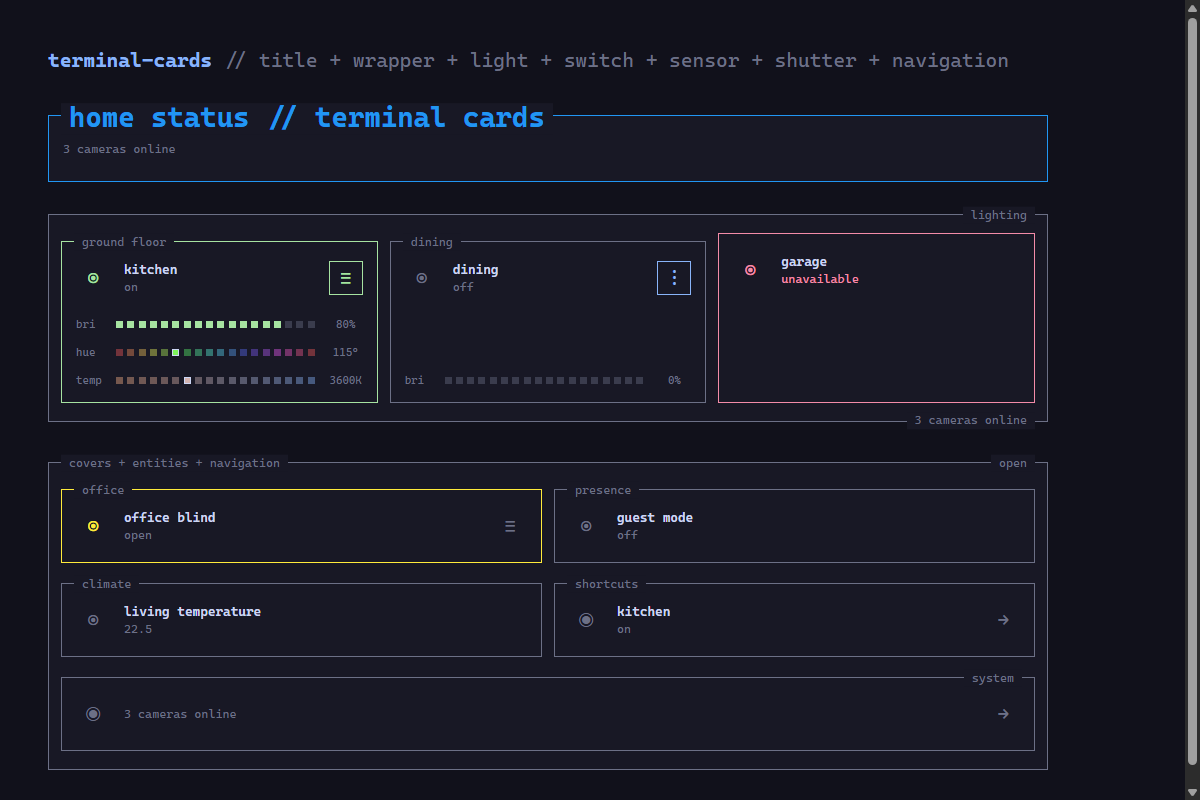
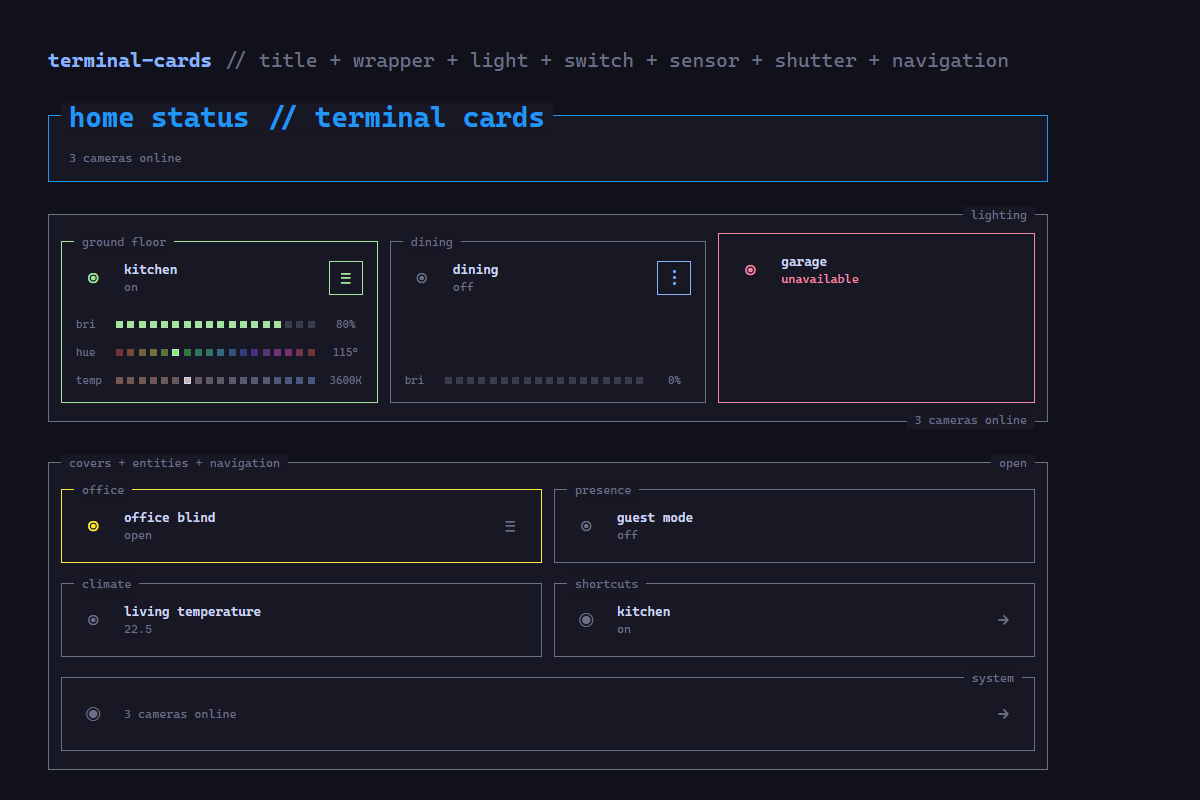
fix: TitleCard-Abstände und Wrapper-Picker korrigieren

Changed region(s): [[0.9867, 0.0, 1.0, 1.0], [0.0617, 0.1875, 0.1542, 0.2188]]

diff --git a/src/editors/wrapper-editor.js b/src/editors/wrapper-editor.js
@@ -45,6 +45,57 @@ const FORM_SCHEMA = [
   },
 ];
 
+let cardPickerLoadPromise = null;
+
+function withTimeout(promise, message, timeout = 5000) {
+  return new Promise((resolve, reject) => {
+    const timer = window.setTimeout(() => reject(new Error(message)), timeout);
+    Promise.resolve(promise).then(
+      (value) => {
+        window.clearTimeout(timer);
+        resolve(value);
+      },
+      (error) => {
+        window.clearTimeout(timer);
+        reject(error);
+      }
+    );
+  });
+}
+
+function ensureNativeCardPicker() {
+  if (customElements.get('hui-card-picker')) return Promise.resolve();
+  if (cardPickerLoadPromise) return cardPickerLoadPromise;
+
+  cardPickerLoadPromise = (async () => {
+    if (typeof window.loadCardHelpers !== 'function') {
+      throw new Error('window.loadCardHelpers is unavailable');
+    }
+    const helpers = await window.loadCardHelpers();
+    helpers.createCardElement({ type: 'vertical-stack', cards: [] });
+    await withTimeout(
+      customElements.whenDefined('hui-vertical-stack-card'),
+      'Home Assistant stack card load timed out'
+    );
+    const stackCardClass = customElements.get('hui-vertical-stack-card');
+    if (typeof stackCardClass?.getConfigElement !== 'function') {
+      throw new Error('Home Assistant stack editor is unavailable');
+    }
+    await withTimeout(
+      stackCardClass.getConfigElement(),
+      'Home Assistant stack editor load timed out'
+    );
+    if (!customElements.get('hui-card-picker')) {
+      throw new Error('Home Assistant card picker did not load');
+    }
+  })().catch((error) => {
+    cardPickerLoadPromise = null;
+    throw error;
+  });
+
+  return cardPickerLoadPromise;
+}
+
 const STYLES = `
   :host { display: block; }
   .editor { display: grid; gap: 16px; }
@@ -91,6 +142,7 @@ export class TerminalCardWrapperEditor extends HTMLElement {
     this._childEditor = null;
     this._picker = null;
     this._form = null;
+    this._renderGeneration = 0;
 
     const root = this.attachShadow({ mode: 'open' });
     const style = document.createElement('style');
@@ -99,9 +151,23 @@ export class TerminalCardWrapperEditor extends HTMLElement {
     root.append(style, this._container);
   }
 
+  connectedCallback() {
+    if (this._config) this._render();
+  }
+
+  disconnectedCallback() {
+    ++this._renderGeneration;
+  }
+
   set hass(hass) {
     this._hass = hass;
-    if (this._config && !this._container.hasChildNodes()) this._render();
+    if (
+      this._config &&
+      (!this._container.hasChildNodes() ||
+        (this._selected >= this._config.cards.length && !this._picker))
+    ) {
+      this._render();
+    }
     this._propagateContext();
   }
 
@@ -111,6 +177,13 @@ export class TerminalCardWrapperEditor extends HTMLElement {
 
   set lovelace(lovelace) {
     this._lovelace = lovelace;
+    if (
+      this._config &&
+      this._selected >= this._config.cards.length &&
+      !this._picker
+    ) {
+      this._render();
+    }
     this._propagateContext();
   }
 
@@ -151,6 +224,7 @@ export class TerminalCardWrapperEditor extends HTMLElement {
 
   _render() {
     if (!this._config) return;
+    const renderGeneration = ++this._renderGeneration;
     this._childEditor = null;
     this._picker = null;
     this._form = null;
@@ -256,7 +330,7 @@ export class TerminalCardWrapperEditor extends HTMLElement {
       this._renderCardOptions(cardEditor);
       this._renderChildEditor(cardEditor);
     } else {
-      this._renderPicker(cardEditor);
+      this._renderPicker(cardEditor, renderGeneration);
     }
     editor.append(cardEditor);
     this._container.append(editor);
@@ -353,8 +427,8 @@ export class TerminalCardWrapperEditor extends HTMLElement {
     this._modeButton.disabled = !this._guiModeAvailable;
   }
 
-  _renderPicker(container) {
-    if (customElements.get('hui-card-picker')) {
+  _renderPicker(container, renderGeneration) {
+    if (customElements.get('hui-card-picker') && this._hass && this._lovelace) {
       this._picker = document.createElement('hui-card-picker');
       this._picker.hass = this._hass;
       this._picker.lovelace = this._lovelace;
@@ -371,9 +445,37 @@ export class TerminalCardWrapperEditor extends HTMLElement {
     }
 
     const alert = document.createElement('ha-alert');
-    alert.setAttribute('alert-type', 'warning');
-    alert.textContent = 'Home Assistant’s native card picker is not available yet. Reopen the card editor.';
+    alert.setAttribute('alert-type', 'info');
+    alert.textContent = this._hass && this._lovelace
+      ? 'Loading Home Assistant’s native card picker…'
+      : 'Loading Home Assistant editor context…';
     container.append(alert);
+    if (!this._hass || !this._lovelace) return;
+
+    ensureNativeCardPicker()
+      .then(() => {
+        if (
+          renderGeneration !== this._renderGeneration ||
+          !this.isConnected ||
+          this._selected < this._config.cards.length
+        ) {
+          return;
+        }
+        this._render();
+      })
+      .catch((error) => {
+        if (
+          renderGeneration !== this._renderGeneration ||
+          !this.isConnected ||
+          !container.isConnected
+        ) {
+          return;
+        }
+        alert.setAttribute('alert-type', 'error');
+        alert.textContent = `Home Assistant’s native card picker could not be loaded: ${
+          error instanceof Error ? error.message : String(error)
+        }`;
+      });
   }
 
   _move(delta) {

diff --git a/tests/editors.test.html b/tests/editors.test.html
@@ -55,7 +55,34 @@
           }
         }
       );
-      customElements.define('hui-card-picker', class extends HTMLElement {});
+      let pickerLoadCount = 0;
+      let stackLoadCount = 0;
+      window.loadCardHelpers = async () => ({
+        createCardElement(config) {
+          if (config.type !== 'vertical-stack' || !Array.isArray(config.cards)) {
+            throw new Error('unexpected native editor preload config');
+          }
+          stackLoadCount += 1;
+          const stack = document.createElement('hui-vertical-stack-card');
+          setTimeout(() => {
+            if (customElements.get('hui-vertical-stack-card')) return;
+            customElements.define(
+              'hui-vertical-stack-card',
+              class extends HTMLElement {
+                static async getConfigElement() {
+                  pickerLoadCount += 1;
+                  await new Promise((resolve) => setTimeout(resolve, 10));
+                  if (!customElements.get('hui-card-picker')) {
+                    customElements.define('hui-card-picker', class extends HTMLElement {});
+                  }
+                  return document.createElement('div');
+                }
+              }
+            );
+          }, 10);
+          return stack;
+        },
+      });
     </script>
     <script type="module" src="../dist/terminal-cards.js"></script>
   </head>
@@ -64,6 +91,14 @@
     <script type="module">
       function assert(condition, message) {
         if (!condition) throw new Error(message);
+      }
+
+      async function waitFor(condition, message) {
+        const deadline = performance.now() + 3000;
+        while (!condition() && performance.now() < deadline) {
+          await new Promise((resolve) => setTimeout(resolve, 10));
+        }
+        assert(condition(), message);
       }
 
       async function run() {
@@ -160,9 +195,34 @@
         );
         assert(latest.cards[0].name === 'updated', 'child card visual edit was not saved');
 
+        assert(!customElements.get('hui-card-picker'), 'picker was already loaded before add');
+        editor.lovelace = null;
         editor.shadowRoot.querySelector('[data-action="add"]').click();
+        assert(
+          editor.shadowRoot.querySelector('ha-alert')?.textContent.includes('editor context'),
+          'picker was attached without complete Home Assistant editor context'
+        );
+        editor.lovelace = lovelace;
+        assert(
+          editor.shadowRoot.querySelector('ha-alert')?.textContent.includes('native card picker'),
+          'missing native picker did not enter a loading state'
+        );
+        editor.remove();
+        await customElements.whenDefined('hui-card-picker');
+        await Promise.resolve();
+        assert(
+          !editor.shadowRoot.querySelector('hui-card-picker'),
+          'stale picker load rendered while the editor was disconnected'
+        );
+        document.body.append(editor);
+        await waitFor(
+          () => Boolean(editor.shadowRoot.querySelector('hui-card-picker')),
+          'native card picker did not load without reopening the editor'
+        );
         const picker = editor.shadowRoot.querySelector('hui-card-picker');
-        assert(picker && picker.hass === hass && picker.lovelace === lovelace, 'native card picker missing');
+        assert(stackLoadCount === 1, 'native stack card preload ran more than once');
+        assert(pickerLoadCount === 1, 'native card picker preload ran more than once');
+        assert(picker.hass === hass && picker.lovelace === lovelace, 'native card picker context missing');
         picker.dispatchEvent(
           new CustomEvent('config-changed', {
             bubbles: true,
@@ -296,7 +356,7 @@
         document.title = 'PASS terminal-cards editors';
         document.querySelector('#result').textContent = [
           'PASS: wrapper fields use native ha-form controls',
-          'PASS: native HA tabs, icon buttons, card picker and child editor',
+          'PASS: native HA tabs, icon buttons, lazy card picker and child editor',
           'PASS: child cards add, update, move and remove',
           'PASS: title card exposes native title, Markdown/template subtitle, size and appearance controls',
           'PASS: light, switch and sensor forms use native entity/action controls',

diff --git a/tests/title.test.html b/tests/title.test.html
@@ -105,6 +105,40 @@
         assert(card.getGridOptions().columns === 12, 'title card is not full-width by default');
         assert(card.getCardSize() === 2, 'title card size does not reflect the large font');
 
+        const leftCard = document.createElement('terminal-title-card');
+        leftCard.setConfig({
+          title: 'left title',
+          subtitle: 'left subtitle',
+          font_size: 30,
+          title_position: 'left',
+        });
+        document.body.prepend(leftCard);
+        leftCard.hass = hass;
+        const leftFrame = leftCard.shadowRoot.querySelector('.frame');
+        const leftTitle = leftCard.shadowRoot.querySelector('.title');
+        const leftSubtitle = leftCard.shadowRoot.querySelector('.subtitle');
+        const leftFrameRect = leftFrame.getBoundingClientRect();
+        const leftTitleRect = leftTitle.getBoundingClientRect();
+        const leftSubtitleRect = leftSubtitle.getBoundingClientRect();
+        const leftTitleStyle = getComputedStyle(leftTitle);
+        const leftSubtitleStyle = getComputedStyle(leftSubtitle);
+        const titleTextLeft = leftTitleRect.left + parseFloat(leftTitleStyle.paddingLeft);
+        const subtitleTextLeft = leftSubtitleRect.left + parseFloat(leftSubtitleStyle.paddingLeft);
+        assert(
+          Math.abs(titleTextLeft - subtitleTextLeft) < 1,
+          'left subtitle does not share the title text inset'
+        );
+        const titleToSubtitleGap = leftSubtitleRect.top - leftTitleRect.bottom;
+        const subtitleToBottomGap = leftFrameRect.bottom - leftSubtitleRect.bottom;
+        assert(
+          Math.abs(titleToSubtitleGap - subtitleToBottomGap) < 1,
+          `left subtitle gaps differ: title=${titleToSubtitleGap}, bottom=${subtitleToBottomGap}`
+        );
+        assert(
+          Math.abs((subtitleRect.top + subtitleRect.bottom) / 2 - (frameRect.top + frameRect.bottom) / 2) < 1,
+          'right subtitle alignment changed while adjusting the left layout'
+        );
+
         const form = card.constructor.getConfigForm();
         const fields = form.schema.flatMap((item) => item.schema || [item]);
         assert(fields.find((field) => field.name === 'title').selector.text, 'native title selector missing');
@@ -165,6 +199,7 @@
         );
         assert(unsubscribeCount === 1, 'template subscription was not cleaned up on config change');
         card.remove();
+        leftCard.remove();
         compact.remove();
         legacyAccent.remove();
 
@@ -172,6 +207,7 @@
         document.title = 'PASS terminal-title-card';
         document.querySelector('#result').textContent = [
           'PASS: compact square 1px frame, lowered border title and no glow',
+          'PASS: position-aware subtitle inset and balanced left-title spacing',
           'PASS: reactive Markdown/template subtitle with subscription cleanup',
           'PASS: native HA theme-color editor, validation and legacy RGB rendering',
         ].join('\n');

diff --git a/src/cards/title-card.js b/src/cards/title-card.js
@@ -43,6 +43,10 @@ const STYLES = `
     align-items: center;
     min-height: max(56px, calc(var(--terminal-title-font-size) * 1.1 + 36px));
   }
+  .frame[data-has-subtitle="true"][data-title-position="left"] {
+    /* The title's 1.1 line box sits 58% below the border after translateY(-42%). */
+    padding-top: calc(var(--terminal-title-font-size) * .638 + 1px);
+  }
   .title {
     position: absolute;
     z-index: 1;
@@ -76,6 +80,9 @@ const STYLES = `
     --mdc-typography-body1-font-family: ${TERMINAL_FONT};
     --mdc-typography-body1-font-size: 12px;
     --mdc-typography-body1-line-height: 1.35;
+  }
+  .frame[data-has-subtitle="true"][data-title-position="left"] .subtitle {
+    padding-left: 20px;
   }
   .subtitle[hidden] { display: none; }
 `;
@@ -191,6 +198,7 @@ export class TerminalTitleCard extends HTMLElement {
     applyAccentColor(this, config.accent_color);
     this._title.textContent = config.title;
     this._title.dataset.titlePosition = config.title_position || 'left';
+    this._frame.dataset.titlePosition = config.title_position || 'left';
     this._frame.setAttribute('aria-label', config.title);
     this._renderSubtitle();
     this._ensureTemplateSubscription();

diff --git a/README.md b/README.md
@@ -8,7 +8,7 @@ Terminal-style Lovelace cards for Home Assistant, inspired by Herdr panes: squar
 
 ### `custom:terminal-card-wrapper`
 
-Frames arbitrary Lovelace child cards with a terminal-style title embedded in its top border. Child cards have matching 18 px top and bottom spacing. They are vertical by default; set `columns` for a grid. Children in the same grid row stretch to an equal height. When the final grid row contains only one card, that card automatically spans the complete row. An optional formatted entity state or reactive template result can be embedded in any of the four frame corners. The native-style visual editor can add, configure, reorder, and remove child cards without YAML.
+Frames arbitrary Lovelace child cards with a terminal-style title embedded in its top border. Child cards have matching 18 px top and bottom spacing. They are vertical by default; set `columns` for a grid. Children in the same grid row stretch to an equal height. When the final grid row contains only one card, that card automatically spans the complete row. An optional formatted entity state or reactive template result can be embedded in any of the four frame corners. The native-style visual editor can add, configure, reorder, and remove child cards without YAML; it lazily loads Home Assistant's native card picker when necessary instead of requiring the editor to be reopened.
 
 ```yaml
 type: custom:terminal-card-wrapper
@@ -28,7 +28,7 @@ cards:
 
 ### `custom:terminal-title-card`
 
-A compact terminal heading frame for dashboard sections. Its large title remains embedded slightly inside the upper border and can be positioned left or right. Font size is configurable from 14 to 48 px. An optional vertically centered `subtitle` accepts Markdown and reactive Home Assistant templates in the same field; rendered template output is passed to Home Assistant's Markdown component.
+A compact terminal heading frame for dashboard sections. Its large title remains embedded slightly inside the upper border and can be positioned left or right. Font size is configurable from 14 to 48 px. An optional `subtitle` accepts Markdown and reactive Home Assistant templates in the same field; rendered template output is passed to Home Assistant's Markdown component. With a left-aligned title, the subtitle uses the same text inset and sits with equal vertical space between the title and lower border. Right-aligned titles retain the centered subtitle layout.
 
 ```yaml
 type: custom:terminal-title-card

diff --git a/CHANGELOG.md b/CHANGELOG.md
@@ -1,5 +1,10 @@
 # Changelog
 
+## 0.9.1 — 2026-08-27
+
+- Align a left-positioned TitleCard subtitle with the title text and balance its vertical spacing between the title and lower border, while preserving the centered right-title layout.
+- Lazily load Home Assistant's native Wrapper child-card picker so cards can be added visually without reopening the editor.
+
 ## 0.9.0 — 2026-08-27
 
 - Let Switch Cards control both `switch.*` and `input_boolean.*` entities with their native toggle services.
